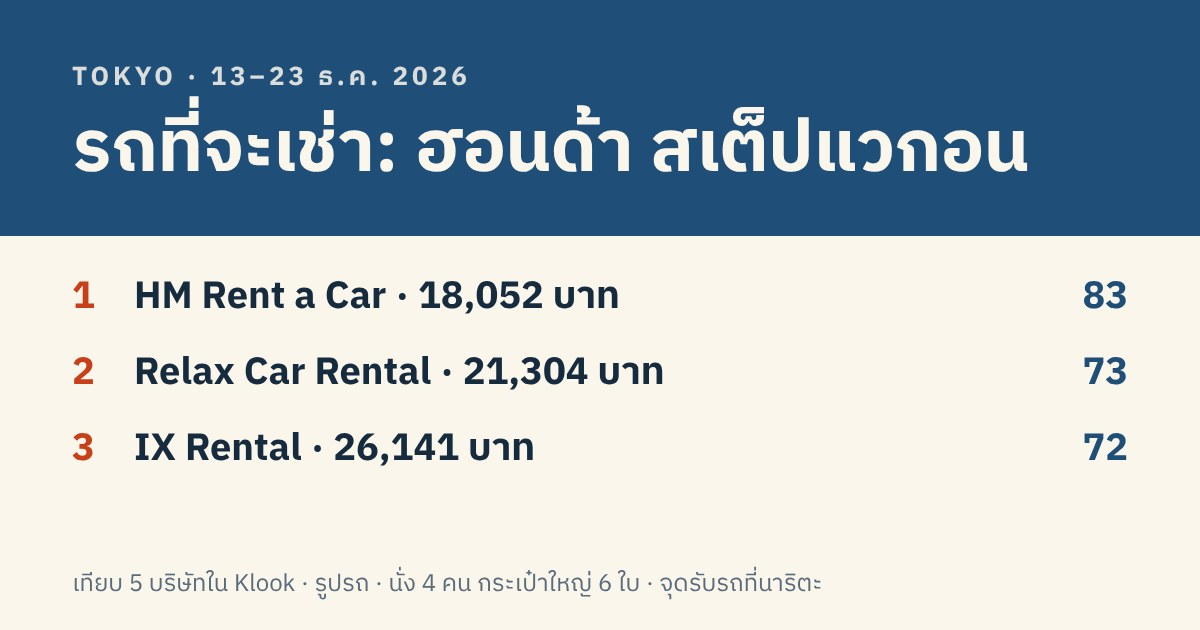
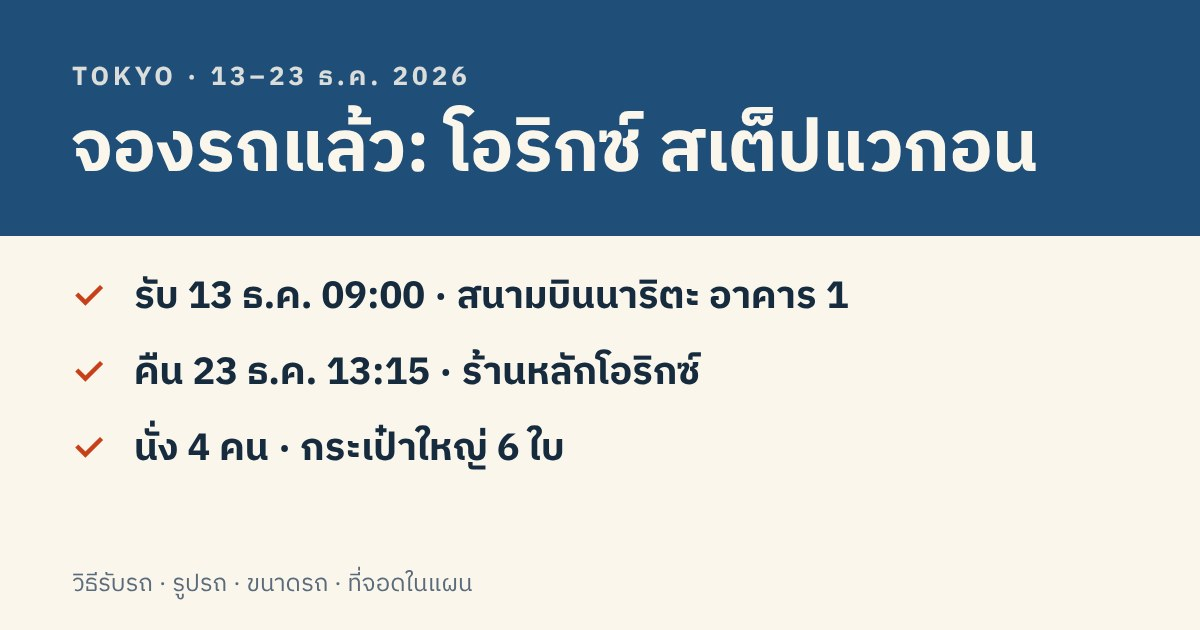
tokyo-2026: จองรถโอริกซ์แล้ว เพิ่มวิธีรับ-คืนรถ
Claude-Session: https://claude.ai/code/session_01SV98N743TaKhzUEWTdNbCs

diff --git a/tokyo-2026/index.html b/tokyo-2026/index.html
@@ -4,12 +4,12 @@
 <meta charset="utf-8">
 <meta name="viewport" content="width=device-width, initial-scale=1, viewport-fit=cover">
 <meta name="robots" content="noindex, nofollow">
-<title>เช่าสเต็ปแวกอนทริปโตเกียว</title>
+<title>รถเช่าทริปโตเกียว</title>
 <meta name="description" content="รถที่จะเช่าทริปโตเกียว 13–23 ธ.ค.: ฮอนด้า สเต็ปแวกอน เทียบ 5 บริษัทใน Klook พร้อมรูป ภาพการวางกระเป๋า 6 ใบ และจุดรับรถ">
 <meta property="og:type" content="website">
-<meta property="og:title" content="รถที่จะเช่า: ฮอนด้า สเต็ปแวกอน 13–23 ธ.ค.">
-<meta property="og:description" content="เทียบ 5 บริษัทใน Klook · รูปรถ · นั่ง 4 คน กระเป๋าใหญ่ 6 ใบ · จุดรับรถที่นาริตะ">
-<meta property="og:image" content="https://phoneyjung.github.io/PHONE/tokyo-2026/og.jpg?v=20261026sw">
+<meta property="og:title" content="รถเช่าทริปโตเกียว: จองโอริกซ์ สเต็ปแวกอนแล้ว">
+<meta property="og:description" content="วิธีรับรถที่นาริตะ · รูปรถ · นั่ง 4 คน กระเป๋าใหญ่ 6 ใบ · ที่จอดในแผน">
+<meta property="og:image" content="https://phoneyjung.github.io/PHONE/tokyo-2026/og.jpg?v=20261026orix">
 <meta property="og:image:width" content="1200">
 <meta property="og:image:height" content="630">
 <meta property="og:url" content="https://phoneyjung.github.io/PHONE/tokyo-2026/">
@@ -146,6 +146,13 @@ ol.plain{padding-left:22px}
 .why li{margin-bottom:6px}
 .hero .btns{grid-template-columns:repeat(2,minmax(0,1fr))}
 .hero .btns a:first-child{background:transparent;color:var(--blue)}
+.booked{display:flex;flex-direction:column;gap:10px;padding:16px;border-radius:16px;background:var(--ok-soft);border:2px solid var(--ok)}
+.booked h2{margin:0;color:var(--ok)}
+.bkl{font-weight:700;color:var(--ok);display:flex;align-items:center;gap:8px}
+.bkl .ic{width:22px;height:22px;border-radius:50%;display:grid;place-items:center;background:var(--ok);color:var(--surface);font-size:.8rem}
+.steps li{margin-bottom:6px}
+.booked .btns a{background:var(--surface);color:var(--ok);border-color:var(--ok)}
+.badge.ok{background:var(--ok-soft);color:var(--ok)}
 .dg{margin:0;background:var(--surface);border:1px solid var(--line);border-radius:16px;padding:12px;display:flex;flex-direction:column;align-items:center;gap:8px}
 .diag{width:100%;max-width:340px;height:auto}
 .dg figcaption{font-size:.88rem;color:var(--muted)}
@@ -155,21 +162,31 @@ ol.plain{padding-left:22px}
 <div class="wrap">
 <header class="top">
   <p class="eyebrow">ทริปโตเกียว · 13–23 ธ.ค. 2026</p>
-  <h1>รถที่จะเช่า: ฮอนด้า สเต็ปแวกอน</h1>
+  <h1>รถที่เช่าแล้ว: ฮอนด้า สเต็ปแวกอน</h1>
   <p class="meta">รับที่สนามบินนาริตะ 13 ธ.ค. 09:00 · คืนที่เดิม 23 ธ.ค. 13:15 · ผู้ใหญ่ 3 + เด็ก 1 · กระเป๋าใหญ่ 6 ใบ · ราคาใน Klook เช็กเมื่อ 26 ต.ค.</p>
 </header>
+<section class="booked" aria-labelledby="bk0">
+  <p class="bkl"><span class="ic">✓</span> จองแล้ว 26 ต.ค.</p>
+  <h2 id="bk0">โอริกซ์ (ORIX Rent A Car) ผ่าน Klook</h2>
+  <p>ฮอนด้า สเต็ปแวกอนหรือรุ่นใกล้เคียง 8 ที่นั่ง · รับ 13 ธ.ค. 09:00 · คืน 23 ธ.ค. 13:15 ที่นาริตะ</p>
+  <ol class="plain steps">
+   <li><b>รับรถ:</b> ออกจากโถงขาเข้า ไปเคาน์เตอร์เช่ารถชั้น 1 อาคาร 1 ยกโทรศัพท์สายตรงของโอริกซ์ รถรับส่งมารับประมาณ 15 นาที พาไปร้านหลัก</li>
+   <li><b>ที่ร้าน:</b> ยื่นใบขับขี่ไทย ใบขับขี่สากล พาสปอร์ต รับบัตร ETC และเบาะเสริมเด็ก ถ่ายวิดีโอรอบคันก่อนออก</li>
+   <li><b>คืนรถ:</b> เติมน้ำมันเต็มถัง คืนที่ร้านหลักก่อน 13:15 แล้วรถรับส่งไปอาคาร 1</li>
+  </ol>
+  <div class="btns"><a href="https://www.google.com/maps/search/?api=1&amp;query=Orix%20Rent-a-car%20Narita%20International%20Airport&amp;query_place_id=ChIJNX_Lq6D0ImAR3jhrdV_zqBE" target="_blank" rel="noopener">แผนที่ร้านหลัก</a><a href="https://www.google.com/maps/search/?api=1&amp;query=Narita%20Airport%20Terminal%201&amp;query_place_id=ChIJ_VticAvzImAREn1e9j_VkfU" target="_blank" rel="noopener">อาคาร 1 สนามบิน</a></div>
+  <p class="note">ราคาใน Klook ของโอริกซ์ไม่รวมยางหิมะ ต้องขอเพิ่มก่อนวันรับรถ เพราะวันที่ 17–18 ธ.ค. ขึ้นไปคาวากุจิโกะ</p>
+</section>
 <section class="hero" aria-labelledby="h0">
   <a class="carimg" href="https://res.klook.com/image/upload/car-rental/car/Honda-Stepwagon-New_L.JPG" target="_blank" rel="noopener"><img src="https://res.klook.com/image/upload/car-rental/car/Honda-Stepwagon-New_L.JPG" alt="รูปตัวอย่างฮอนด้า สเต็ปแวกอน จาก Klook" onerror="this.parentNode.classList.add('noimg');this.remove()"><span class="cap">ฮอนด้า สเต็ปแวกอน (รูปตัวอย่างจาก Klook)<em>ดูรูปใหญ่</em></span></a>
-  <h2 id="h0">ทำไมเลือกคันนี้</h2>
+  <h2 id="h0">ทำไมเลือกสเต็ปแวกอน</h2>
   <ul class="plain why">
    <li><b>เบาะแถว 3 พับจมลงพื้น</b> ท้ายรถเรียบเต็มความกว้าง วางกระเป๋าใหญ่ 6 ใบได้ง่ายกว่ารุ่นที่พับเบาะยกขึ้นข้างตัวรถ</li>
    <li><b>ขนาด ยาว 4.80 กว้าง 1.75 สูง 1.84 ม.</b> จอดได้ทุกลานในแผนเที่ยว</li>
    <li><b>7–8 ที่นั่ง</b> ไป 4 คน นั่งแถวหน้ากับแถว 2 สบาย ๆ</li>
   </ul>
   <div class="btns"><a href="https://www.honda.co.jp/STEPWGN/" target="_blank" rel="noopener">รูปรถจากฮอนด้า</a><a href="https://www.honda.co.jp/outdoor/camp-car/stepwgn/" target="_blank" rel="noopener">รูปตอนพับเบาะใส่ของ</a></div>
-  <a class="klbig" href="https://www.klook.com/th/car-rentals/results/?pick=%E0%B8%AA%E0%B8%99%E0%B8%B2%E0%B8%A1%E0%B8%9A%E0%B8%B4%E0%B8%99%E0%B8%99%E0%B8%B2%E0%B8%99%E0%B8%B2%E0%B8%8A%E0%B8%B2%E0%B8%95%E0%B8%B4%E0%B8%99%E0%B8%B2%E0%B8%A3%E0%B8%B4%E0%B8%95%E0%B8%B0&drop=%E0%B8%AA%E0%B8%99%E0%B8%B2%E0%B8%A1%E0%B8%9A%E0%B8%B4%E0%B8%99%E0%B8%99%E0%B8%B2%E0%B8%99%E0%B8%B2%E0%B8%8A%E0%B8%B2%E0%B8%95%E0%B8%B4%E0%B8%99%E0%B8%B2%E0%B8%A3%E0%B8%B4%E0%B8%95%E0%B8%B0&diffLoc=false&pDate=2026-12-13%2009%3A00&dDate=2026-12-23%2013%3A15&age=30&lat=35.76472&long=140.38639&dLat=35.76472&dLong=140.38639&code=JP&dCode=JP&iata=140.38639,35.76472&dIata=140.38639,35.76472&cgt=11&pCityId=18170&pCityName=Narita&pPoiId=&dCityId=18170&dCityName=Narita&dPoiId=" target="_blank" rel="noopener">เปิดรถตู้ใน Klook (ใส่วันเวลาให้แล้ว)</a>
-  <p class="note">ใน Klook กดที่ "Step Wagon" แล้วเลือกบริษัท</p>
-</section>
+  </section>
 <section aria-labelledby="h1x"><h2 id="h1x">นั่งยังไง วางกระเป๋ายังไง</h2>
   <figure class="dg"><svg viewBox="0 -26 360 666" role="img" aria-labelledby="dgt dgd" class="diag">
 <title id="dgt">ภาพประกอบการนั่งและวางกระเป๋าในสเต็ปแวกอน</title>
@@ -188,9 +205,10 @@ ol.plain{padding-left:22px}
 <text x="180" y="612" text-anchor="middle" font-size="12" fill="var(--muted)">ท้ายรถ</text>
 </svg><figcaption>ภาพประกอบมองจากด้านบน ไม่ใช่สเกลจริง ญี่ปุ่นขับพวงมาลัยขวา ลูกนั่งเบาะเสริมแถว 2 ถ้ากระเป๋าบางใบใหญ่มาก วางนอนซ้อนด้านบนได้</figcaption></figure>
 </section>
-<section aria-labelledby="s1"><h2 id="s1">สรุปสั้น ๆ</h2><div class="picks"><a class="pick" href="#hm"><span class="lbl">คุ้มที่สุด</span><b>HM Rent a Car</b><span class="pp">18,052 บาท</span><span class="why">83 คะแนน · ถูกสุด รถใหม่ มียางหิมะ แต่เป็นบริษัทท้องถิ่น</span></a>
-<a class="pick" href="#orix"><span class="lbl">อยากได้บริษัทใหญ่</span><b>โอริกซ์</b><span class="pp">32,685 บาท</span><span class="why">65 คะแนน · เคาน์เตอร์ในอาคาร 1 · 8 ที่นั่ง · ต้องขอยางหิมะเพิ่ม</span></a></div></section>
-<section aria-labelledby="s2"><h2 id="s2">เทียบบริษัทที่มีสเต็ปแวกอนใน Klook</h2>
+<section aria-labelledby="s1"><h2 id="s1">สรุปสั้น ๆ</h2><div class="picks"><a class="pick" href="#orix"><span class="lbl">จองแล้ว</span><b>โอริกซ์</b><span class="pp">32,685 บาท*</span><span class="why">65 คะแนน · บริษัทใหญ่ เคาน์เตอร์ในอาคาร 1 · 8 ที่นั่ง · ต้องขอยางหิมะเพิ่ม</span></a>
+<a class="pick" href="#hm"><span class="lbl">ตัวเลือกที่เคยเทียบ: คุ้มที่สุด</span><b>HM Rent a Car</b><span class="pp">18,052 บาท</span><span class="why">83 คะแนน · ถูกสุด รถใหม่ มียางหิมะ แต่เป็นบริษัทท้องถิ่น</span></a>
+</div><p class="note">*ราคาในหน้านี้เป็นราคาที่เทียบวันที่ 26 ต.ค. ราคาที่จองจริงดูในใบยืนยันของ Klook</p></section>
+<section aria-labelledby="s2"><h2 id="s2">ที่เทียบไว้ก่อนจอง: บริษัทที่มีสเต็ปแวกอนใน Klook</h2>
   <table class="rt"><thead><tr><th>บริษัท</th><th class="n">ราคาทั้งทริป</th><th class="n">คะแนน</th></tr></thead><tbody><tr><td><a href="#hm">1. HM Rent a Car</a><span class="badge">ท้องถิ่น</span></td><td class="n">18,052 บาท</td><td class="n"><b>83</b></td></tr><tr><td><a href="#relax">2. Relax Car Rental</a><span class="badge">ท้องถิ่น</span></td><td class="n">21,304 บาท</td><td class="n"><b>73</b></td></tr><tr><td><a href="#ix">3. IX Rental</a><span class="badge">ท้องถิ่น</span></td><td class="n">26,141 บาท</td><td class="n"><b>72</b></td></tr><tr><td><a href="#orix">4. โอริกซ์</a></td><td class="n">32,685 บาท</td><td class="n"><b>65</b></td></tr><tr><td><a href="#budget">5. บัดเจ็ต</a></td><td class="n">42,574 บาท</td><td class="n"><b>62</b></td></tr></tbody></table>
   <p class="note">ราคารวม 11 วันใน Klook ประกันพื้นฐาน เช็กเมื่อ 26 ต.ค. ราคาเปลี่ยนทุกวัน</p>
   <div class="twrap" style="margin-top:12px"><table class="st"><thead><tr><th>บริษัท</th><th>ราคา<br>×1.2</th><th>สภาพ<br>×1.2</th><th>เชื่อถือ</th><th>รับรถ</th><th>ยางหิมะ</th><th>รวม</th></tr></thead><tbody><tr><td>HM Rent a Car</td><td class="hi">10.0</td><td class="hi">9</td><td class="lo">6</td><td class="">6</td><td class="hi">10</td><td class="tot">83</td></tr><tr><td>Relax Car Rental</td><td class="">9.2</td><td class="">8</td><td class="lo">6</td><td class="lo">3</td><td class="hi">10</td><td class="tot">73</td></tr><tr><td>IX Rental</td><td class="">8.0</td><td class="">7</td><td class="lo">6</td><td class="">5</td><td class="hi">10</td><td class="tot">72</td></tr><tr><td>โอริกซ์</td><td class="">6.4</td><td class="lo">6</td><td class="hi">8</td><td class="hi">8</td><td class="lo">4</td><td class="tot">65</td></tr><tr><td>บัดเจ็ต</td><td class="lo">4.0</td><td class="">8</td><td class="">7</td><td class="">6</td><td class="">6</td><td class="tot">62</td></tr></tbody></table></div>
@@ -250,7 +268,7 @@ ol.plain{padding-left:22px}
    <div class="scores"><p class="lbl">คะแนนแต่ละเรื่อง (เต็ม 10)</p><div class="srow"><span>ราคา</span><span class="sbar"><i style="width:80.0%"></i></span><b>8.0</b></div><div class="srow"><span>สภาพรถ</span><span class="sbar"><i style="width:70%"></i></span><b>7</b></div><div class="srow"><span>ความน่าเชื่อถือ</span><span class="sbar"><i style="width:60%"></i></span><b>6</b></div><div class="srow"><span>รับ-คืนรถสะดวก</span><span class="sbar"><i style="width:50%"></i></span><b>5</b></div><div class="srow"><span>ยางหิมะ</span><span class="sbar"><i style="width:100%"></i></span><b>10</b></div></div>
   </details>
 </article><article class="card" id="orix">
-  <header class="ch"><span class="rk">4</span><div class="nm"><h3>โอริกซ์</h3><p>ใน Klook ชื่อ ORIX Rent A Car · 4.8 จาก 3,221 รีวิว</p></div><div class="sc"><b>65</b><span>คะแนน</span></div></header>
+  <header class="ch"><span class="rk">4</span><div class="nm"><h3>โอริกซ์<span class="badge ok">จองแล้ว</span></h3><p>ใน Klook ชื่อ ORIX Rent A Car · 4.8 จาก 3,221 รีวิว</p></div><div class="sc"><b>65</b><span>คะแนน</span></div></header>
   <div class="pr"><b>32,685 บาท</b><span>สเต็ปแวกอน 8 ที่นั่ง · ทั้งทริป 11 วัน · วันละประมาณ 2,971 บาท</span></div>
   <ul class="chips"><li class="chip ok"><span class="ic" aria-hidden="true">✓</span>บริษัทใหญ่ เคาน์เตอร์ในอาคาร 1</li><li class="chip ok"><span class="ic" aria-hidden="true">✓</span>8 ที่นั่ง ผู้ขับเสริมฟรี</li><li class="chip no"><span class="ic" aria-hidden="true">✕</span>ราคานี้ไม่ระบุยางหิมะ</li><li class="chip warn"><span class="ic" aria-hidden="true">!</span>มีรีวิวได้รถเก่า</li></ul>
   <p class="vd"><span class="g">ดี</span>บริษัทใหญ่ รับรถง่าย คะแนน Klook 4.8</p>

diff --git a/README.md b/README.md
@@ -4,4 +4,4 @@
 
 | โฟลเดอร์ | ลิงก์ |
 |---|---|
-| `tokyo-2026/` รถที่จะเช่าทริปโตเกียว 13–23 ธ.ค. 2026: เทียบสเต็ปแวกอน (หน้าเดิมอยู่ในประวัติ git) | https://phoneyjung.github.io/PHONE/tokyo-2026/ |
+| `tokyo-2026/` รถเช่าทริปโตเกียว 13–23 ธ.ค. 2026: จองโอริกซ์ สเต็ปแวกอนแล้ว วิธีรับ-คืนรถ (หน้าเดิมอยู่ในประวัติ git) | https://phoneyjung.github.io/PHONE/tokyo-2026/ |
